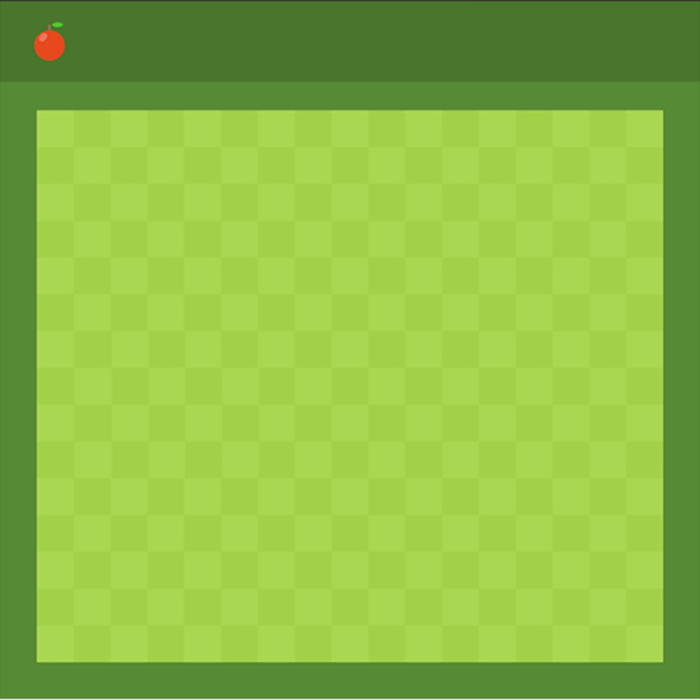
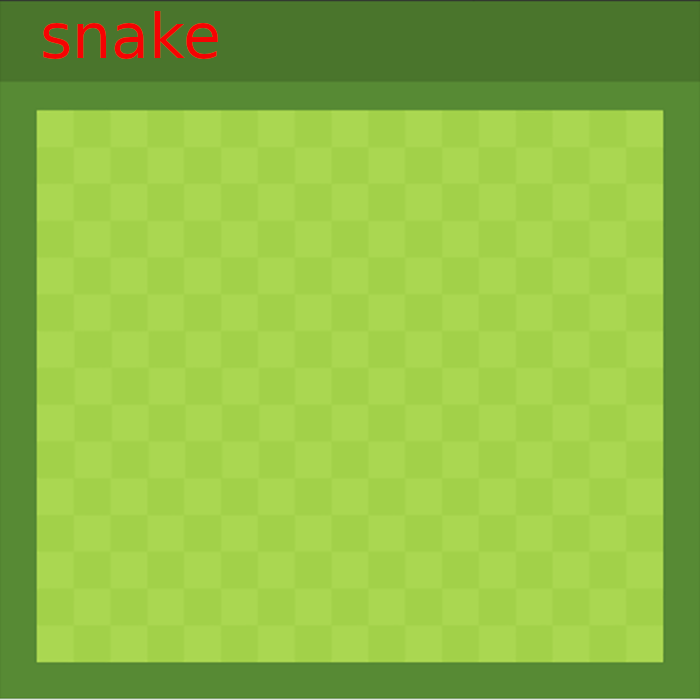
snake

Changed region(s): [[0.03, 0.0, 0.33, 0.09]]

diff --git a/site/script.js b/site/script.js
@@ -7,11 +7,11 @@ ground.src='site/snake700.png';
 const foodImg=new Image();
 foodImg.src='site/food.png';
 
-let box=35;
+let box=37;
 let score=0;
 let food ={
   x:Math.floor(Math.random()*17+1)*box,
-  y:Math.floor(Math.random()*15+1)*box,
+  y:Math.floor(Math.random()*15+3)*box,
 };
 
 let snake=[];
@@ -20,12 +20,72 @@ snake[0]={
   y:10*box
 };
 
-function drawGame(){
-  ctx.drawImage(ground,0,0);
-  ctx.drawImage(foodImg, food.x,food.y);
-  for(let i=0;i<snake.lenght;i++){
+document.addEventListener('keydown',direction);
 
+let dir;
+
+function direction(event){
+  if(event.keyCode==37 && dir !='right'){
+    console.log('Left');
+    dir='left';
+  }else if(event.keyCode==38 && dir !='down'){
+    dir ='up';
+  }else if(event.keyCode==39 && dir !="left"){
+    dir='right';
+  }else if(event.keyCode==40 && dir !='up'){
+    dir='down';
   }
 }
 
-let game=setInterval(drawGame, 100);
+function eatTail(head,arr){
+  for(let i=0;i<arr.length;i++){
+    if(head.x==arr[i].x&&head.y==arr[i].y){
+      clearInterval(game);
+    }
+  }
+}
+
+function drawGame(){
+  ctx.drawImage(ground,0,0);
+  ctx.drawImage(foodImg, food.x,food.y);
+  for(let i=0;i<snake.length;i++){
+    ctx.fillStyle=i ==0?'green':'yellow';
+    ctx.fillRect(snake[i].x,snake[i].y, box, box);
+  }
+  ctx.fillStyle="white";
+  ctx.font='50px Arial';
+  ctx.fillText(score, box*7, box*1.5);
+
+  let snakeX = snake[0].x;
+  let snakeY= snake[0].y;
+
+  if(snakeX==food.x&&snakeY==food.y){
+    score++;
+    food={
+      x:Math.floor(Math.random()*17+1)*box,
+      y:Math.floor(Math.random()*15+3)*box,
+    };
+  }else{
+    snake.pop();
+  }
+
+  // snake.pop();
+  if(snakeX<box||snakeX>box*17||snakeY<3*box||snakeY>box*17){
+    clearInterval(game);
+  }
+
+  if(dir=="left") snakeX-=box;
+  if(dir=="right") snakeX+=box;
+  if(dir=="up") snakeY-=box;
+  if(dir=="down") snakeY+=box;
+
+  let newHead = {
+    x:snakeX,
+    y:snakeY
+  };
+  eatTail(newHead,snake);
+  snake.unshift(newHead);
+}
+
+
+let game=setInterval(drawGame, 300);
